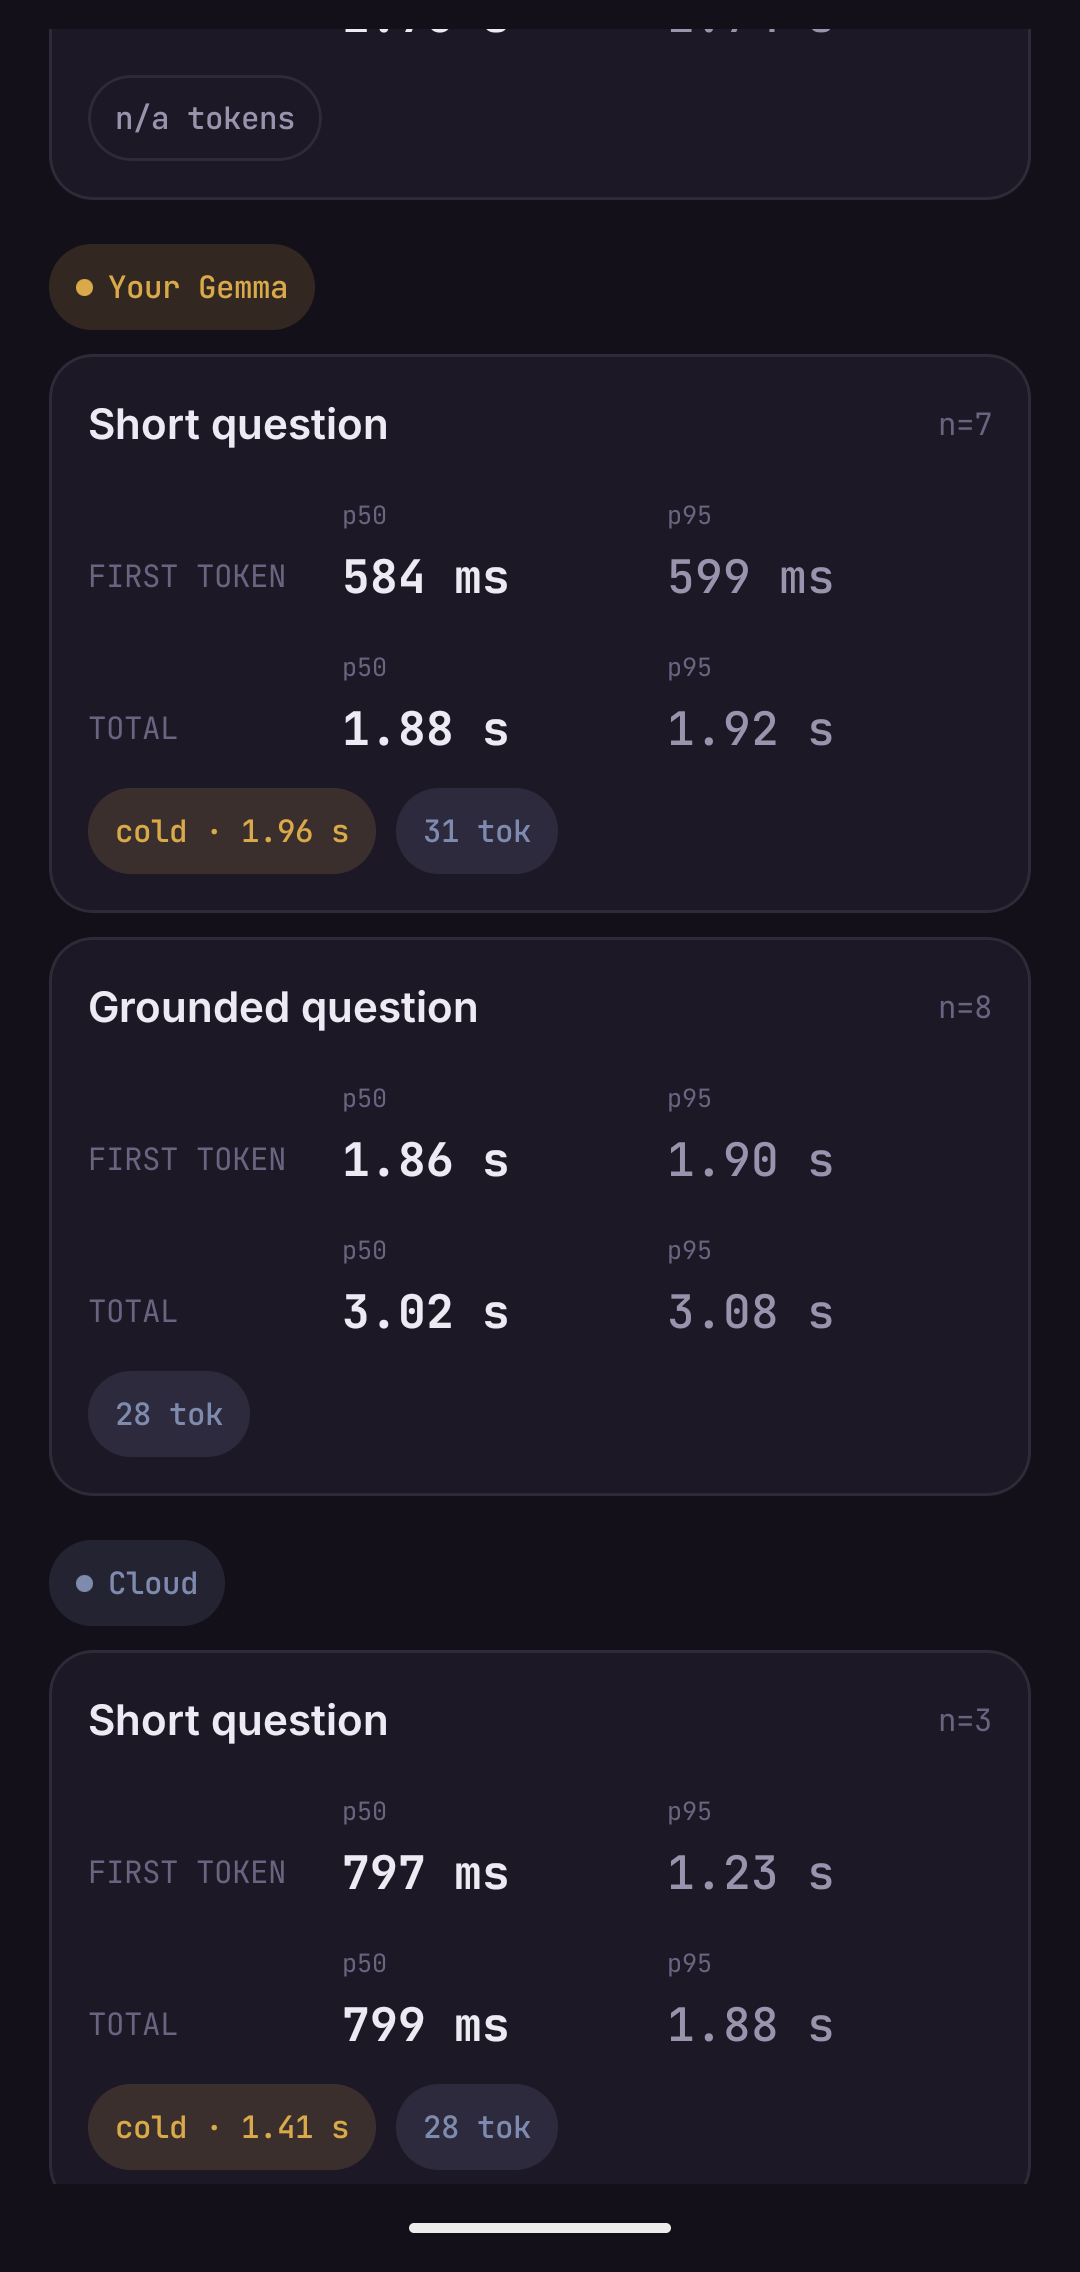
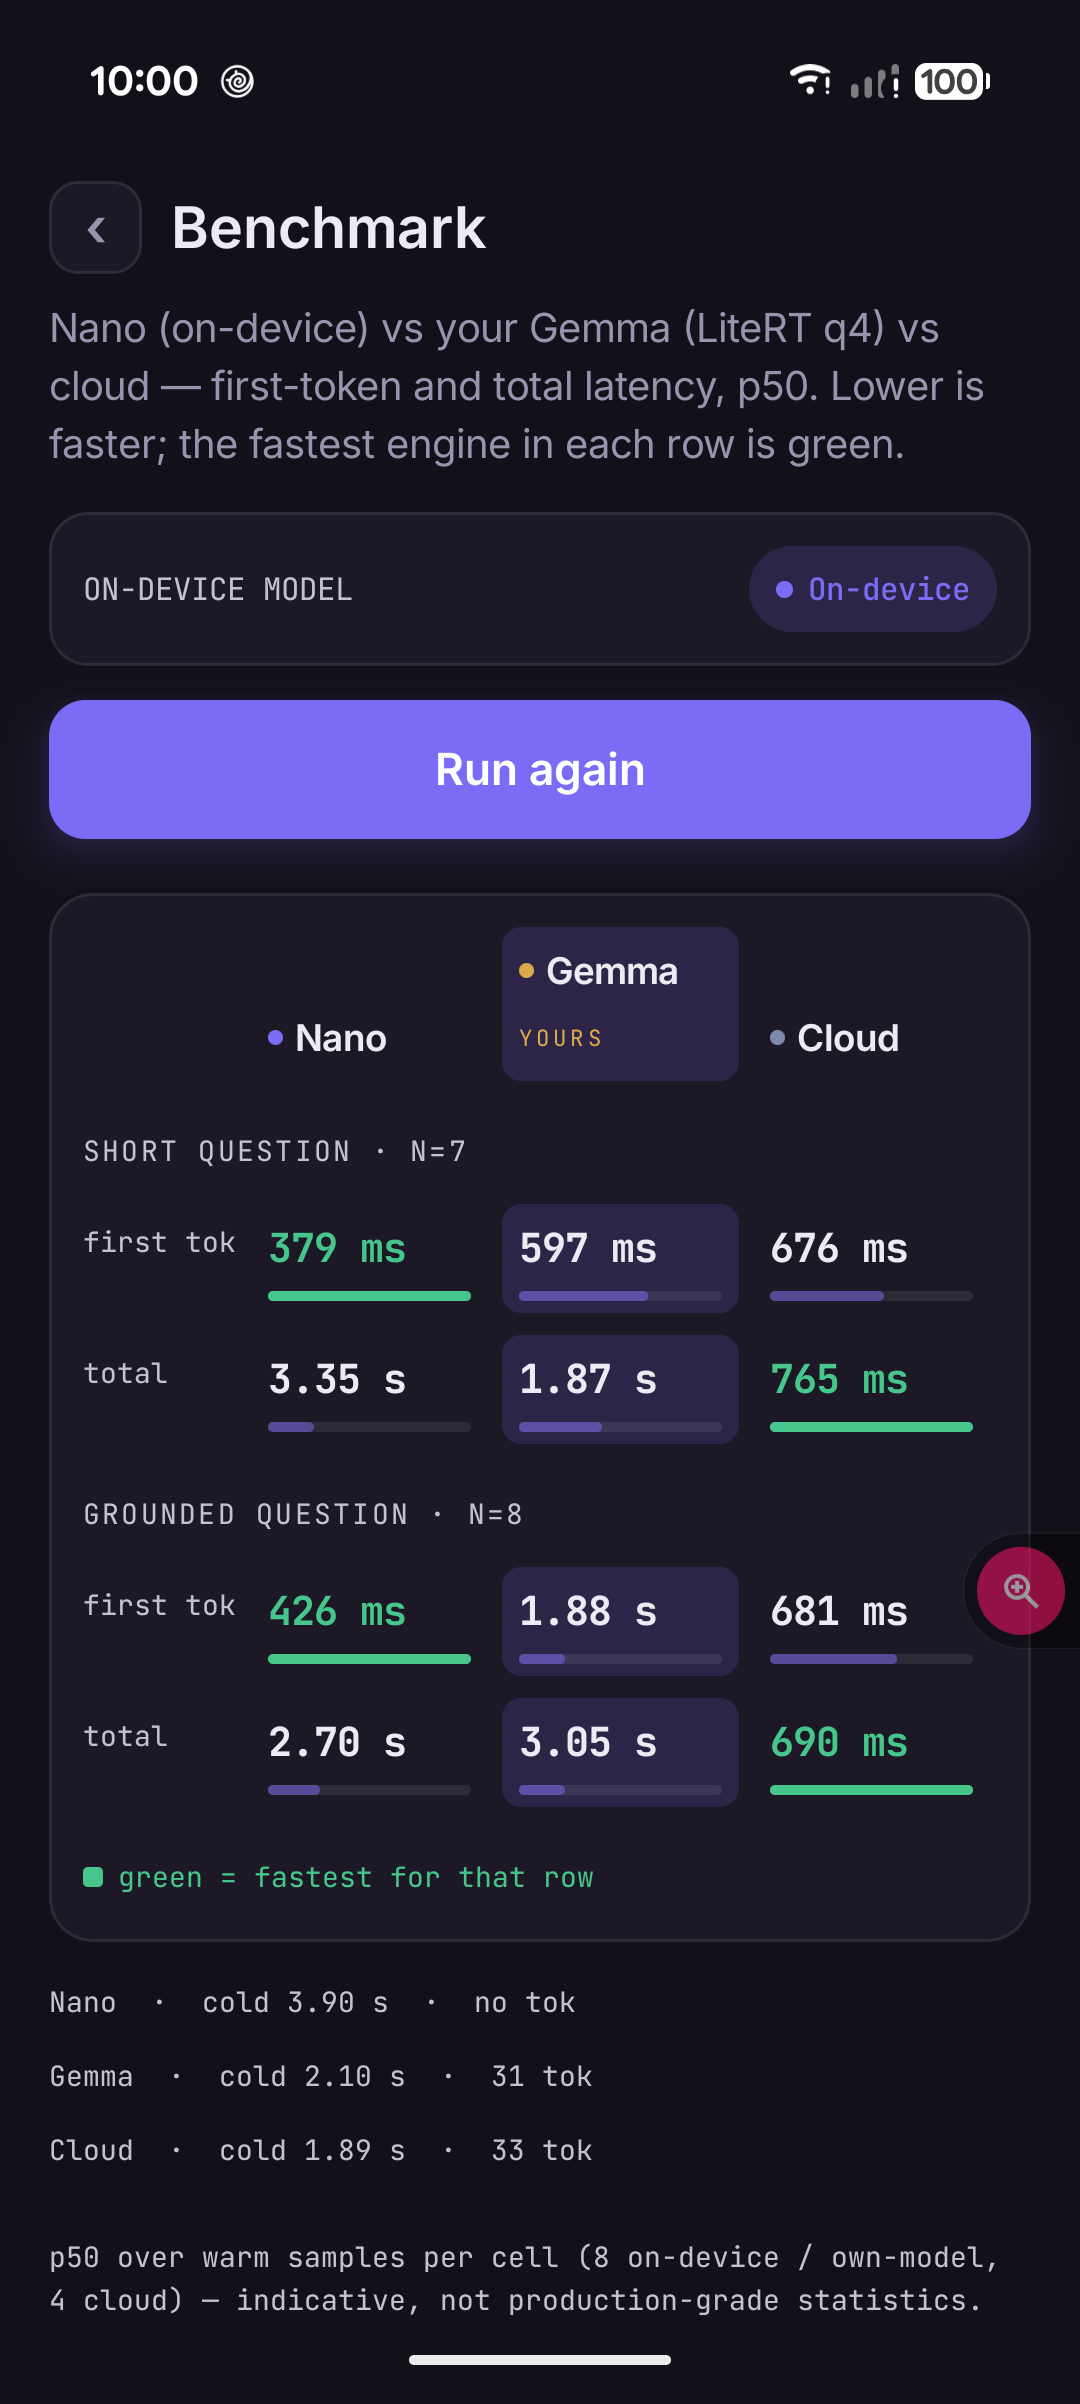
Refresh own-model Ask + three-engine benchmark shots to the _3 design
- Re-side-loaded gemma3-1b-it-int4.litertlm and recaptured the two
  own-model tiles: Ask on "Your Gemma" (gold badge, real own-model
  telemetry) and the three-engine latency matrix (Nano / Your Gemma /
  Cloud), both in the current design.
- Sync the benchmark numbers table + prose to this fresh run so the table
  agrees with the embedded screenshot.

diff --git a/README.md b/README.md
@@ -109,14 +109,14 @@ Measured through the in-app benchmark on the Pixel 10 Pro XL — the same `Gemin
 
 | Prompt | Engine | First-token (p50) | Total (p50) | Output tokens |
 |---|---|--:|--:|--:|
-| Grounded | **Nano** (on-device) | **0.44 s** | 2.70 s | n/a¹ |
-| Grounded | **Your Gemma** (LiteRT INT4, CPU) | 1.86 s | 3.02 s | 28 |
-| Grounded | **Cloud** (2.5 Flash-Lite) | 0.45 s | 0.49 s | 17 |
-| Short | **Nano** (on-device) | **0.39 s** | 3.35 s | n/a¹ |
-| Short | **Your Gemma** (LiteRT INT4, CPU) | 0.58 s | 1.88 s | 31 |
-| Short | **Cloud** (2.5 Flash-Lite) | 0.80 s | 0.80 s | 28 |
+| Grounded | **Nano** (on-device) | **0.43 s** | 2.70 s | n/a¹ |
+| Grounded | **Your Gemma** (LiteRT INT4, CPU) | 1.88 s | 3.05 s | 31 |
+| Grounded | **Cloud** (2.5 Flash-Lite) | 0.68 s | **0.69 s** | 33 |
+| Short | **Nano** (on-device) | **0.38 s** | 3.35 s | n/a¹ |
+| Short | **Your Gemma** (LiteRT INT4, CPU) | 0.60 s | 1.87 s | 31 |
+| Short | **Cloud** (2.5 Flash-Lite) | 0.68 s | **0.77 s** | 33 |
 
-**What the numbers say:** there's no free lunch. **Nano** gives the fastest first token (no network, TPU prefill) but can't report token counts. **Cloud** wins wall-clock total when the network is good. **My Gemma** is the honest middle — competitive decode, real token counts, and a first-token that scales with prompt length because CPU prefill is linear in tokens (0.58 s short → 1.86 s grounded). It's the *engineering* answer, not the fastest number: my own model, running privately, on a phone. Shipping the benchmark — rather than asserting "it's fast" — is the point.
+**What the numbers say:** there's no free lunch. **Nano** gives the fastest first token (no network, TPU prefill) but can't report token counts. **Cloud** wins wall-clock total when the network is good. **My Gemma** is the honest middle — competitive decode, real token counts, and a first-token that scales with prompt length because CPU prefill is linear in tokens (0.60 s short → 1.88 s grounded). It's the *engineering* answer, not the fastest number: my own model, running privately, on a phone. Shipping the benchmark — rather than asserting "it's fast" — is the point.
 
 ¹ Nano never reports token counts (a Firebase-AI on-device limitation); the UI renders "n/a", never a misleading 0. My Gemma (`sizeInTokens`) and cloud both do. Your Gemma's one-time ~3 s model load is amortized once per process and excluded from these figures.
 